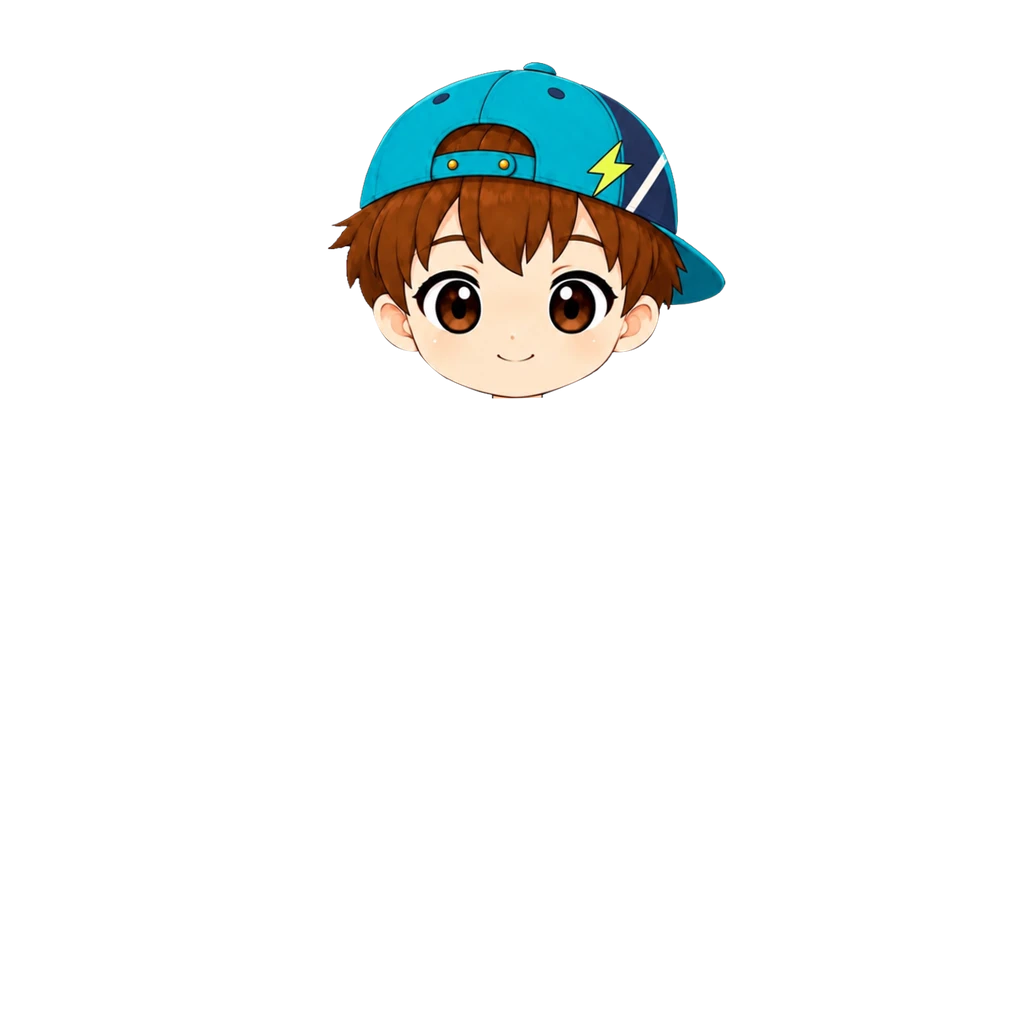
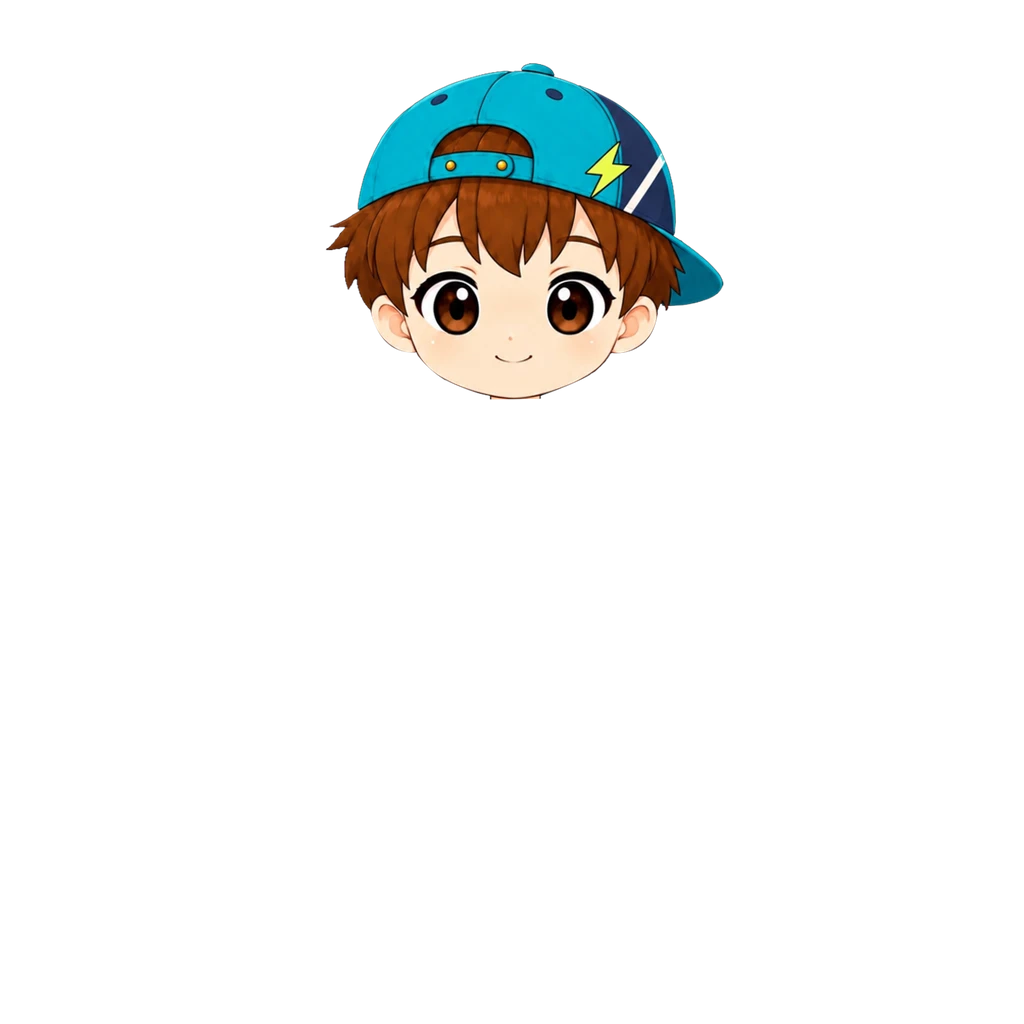
번개 캡모자(남아) 왼쪽 2·아래로 1 (#867)
원점 (327,61)→(325,62). img ?v=6.

Claude-Session: https://claude.ai/code/session_018maNuYqDfFyRSe9uKpZhPR

Changed region(s): [[0.3125, 0.0625, 0.7188, 0.375], [0.4688, 0.375, 0.5312, 0.4062]]

diff --git a/src/data/avatarEquipment.js b/src/data/avatarEquipment.js
@@ -224,8 +224,9 @@ export const AVATAR_CATALOG = [
      [2026-10-04] 사용자 조정 — 아래로 1(원점 (336,77)). 탑재 상자 (336,77,715,399). img ?v=2.
      [2026-10-04] 아래로 1 더(원점 (336,78)). 탑재 상자 (336,78,715,400). img ?v=3.
      [2026-10-04] 머리 3% 크게(배율 0.6633, 턱 아래끝·얼굴 가운데 x516 고정, 원점 (331,68)). 탑재 상자 (331,68,722,400). img ?v=4.
-     [2026-10-04] 2% 더 크게(배율 0.6766, 턱·가운데 고정, 원점 (327,61)). 탑재 상자 (327,61,726,399). img ?v=5. */
-  { id: "hat_cap_boy",    slot: "hat",   label: "번개 캡모자", emoji: "🧢", price:DECOR_PRICE.rare, rarity: "rare", theme: "common", forGender: "boy", hidesHead: true, img: "assets/avatar/hat/lightning-cap-boy.webp?v=5", thumb: "assets/avatar/thumb/hat_cap_boy.webp" },
+     [2026-10-04] 2% 더 크게(배율 0.6766, 턱·가운데 고정, 원점 (327,61)). 탑재 상자 (327,61,726,399). img ?v=5.
+     [2026-10-04] 왼쪽으로 2·아래로 1(원점 (325,62)). 탑재 상자 (325,62,724,400). img ?v=6. */
+  { id: "hat_cap_boy",    slot: "hat",   label: "번개 캡모자", emoji: "🧢", price:DECOR_PRICE.rare, rarity: "rare", theme: "common", forGender: "boy", hidesHead: true, img: "assets/avatar/hat/lightning-cap-boy.webp?v=6", thumb: "assets/avatar/thumb/hat_cap_boy.webp" },
   /* 썸머 썬캡 [2026-10-04] — 남아. 주황 썬캡(조개 장식) + 얼굴 한 장(사용자 원화 520×456). 썸머 웨이브 옷과 짝.
      번개 캡모자와 같은 방식(hidesHead) — 얼굴(눈~입) 템플릿 매칭(일치 0.953)으로 배율 0.676, 원점 (339,83). y404 아래 자름.
      탑재 상자 (339,83,691,391).

diff --git a/art-src/README.md b/art-src/README.md
@@ -602,5 +602,5 @@ bbox로 여백만 잘라내고 배포본은 높이 480px로 축소했다(전부 
 | thumb-src-shoes_lightning.webp | **상점 목록 그림 남아 번개 운동화 (shoes_lightning, 사용자 원화 2026-10-04)** — 상점 카드에만 보이는 한 짝 아이콘. 338×337 투명 배경, 세로 160px 로 줄여 탑재(thumb ?v=2) | avatar/thumb/shoes_lightning.webp |
 | thumb-src-shoes_sandal.webp | **상점 목록 그림 남아 썸머 샌들 (shoes_sandal, 사용자 원화 2026-10-04)** — 상점 카드에만 보이는 한 짝 아이콘. 355×296 투명 배경, 세로 160px 로 줄여 탑재(thumb ?v=2) | avatar/thumb/shoes_sandal.webp |
 | thumb-src-shoes_fins.webp | **상점 목록 그림 남아 바다 오리발 (shoes_fins, 사용자 원화 2026-10-04)** — 상점 카드에만 보이는 한 짝 아이콘. 374×325 투명 배경, 세로 160px 로 줄여 탑재(thumb ?v=2) | avatar/thumb/shoes_fins.webp |
-| lightning-cap-boy-src.webp | **번개 캡모자 원화 남아 — 모자+얼굴 한 장 (사용자 원화 2026-10-04)** — 589×500 투명 배경, 청록 캡(뒤로 쓴 챙·형광 번개). 사파리 모자처럼 hidesHead 로 기본 머리를 대신한다. 얼굴 템플릿 매칭(일치 0.956)으로 배율 0.644·원점 (336,76), y404 아래 자름. 탑재 상자 (336,76,715,398). **[2026-10-04 조정]** 아래로 1(원점 (336,77)) · img ?v=2. 다시 아래로 1(원점 (336,78)) · img ?v=3. 머리 3% 크게(배율 0.6633, 턱·가운데 고정, 원점 (331,68)) · img ?v=4. 다시 2% 크게(0.6766, 원점 (327,61)) · img ?v=5. 상점 그림은 원화를 세로 160px 로 | avatar/hat/lightning-cap-boy.webp · thumb/hat_cap_boy.webp |
+| lightning-cap-boy-src.webp | **번개 캡모자 원화 남아 — 모자+얼굴 한 장 (사용자 원화 2026-10-04)** — 589×500 투명 배경, 청록 캡(뒤로 쓴 챙·형광 번개). 사파리 모자처럼 hidesHead 로 기본 머리를 대신한다. 얼굴 템플릿 매칭(일치 0.956)으로 배율 0.644·원점 (336,76), y404 아래 자름. 탑재 상자 (336,76,715,398). **[2026-10-04 조정]** 아래로 1(원점 (336,77)) · img ?v=2. 다시 아래로 1(원점 (336,78)) · img ?v=3. 머리 3% 크게(배율 0.6633, 턱·가운데 고정, 원점 (331,68)) · img ?v=4. 다시 2% 크게(0.6766, 원점 (327,61)) · img ?v=5. 왼쪽 2·아래로 1(원점 (325,62)) · img ?v=6. 상점 그림은 원화를 세로 160px 로 | avatar/hat/lightning-cap-boy.webp · thumb/hat_cap_boy.webp |
 | summer-visor-boy-src.webp | **썸머 썬캡 원화 남아 — 모자+얼굴 한 장 (사용자 원화 2026-10-04)** — 520×456 투명 배경, 주황 썬캡(조개 장식). hidesHead 로 기본 머리를 대신한다. 얼굴 템플릿 매칭(일치 0.953)으로 배율 0.676·원점 (339,83), y404 아래 자름. 탑재 상자 (339,83,691,391). **[2026-10-04 조정]** 2% 크게(0.6895)·아래로 5, 원점 (335,82) · img ?v=2. 다시 아래로 3(원점 (335,85)) · img ?v=3. 상점 그림은 원화를 세로 160px 로 | avatar/hat/summer-visor-boy.webp · thumb/hat_visor_boy.webp |
